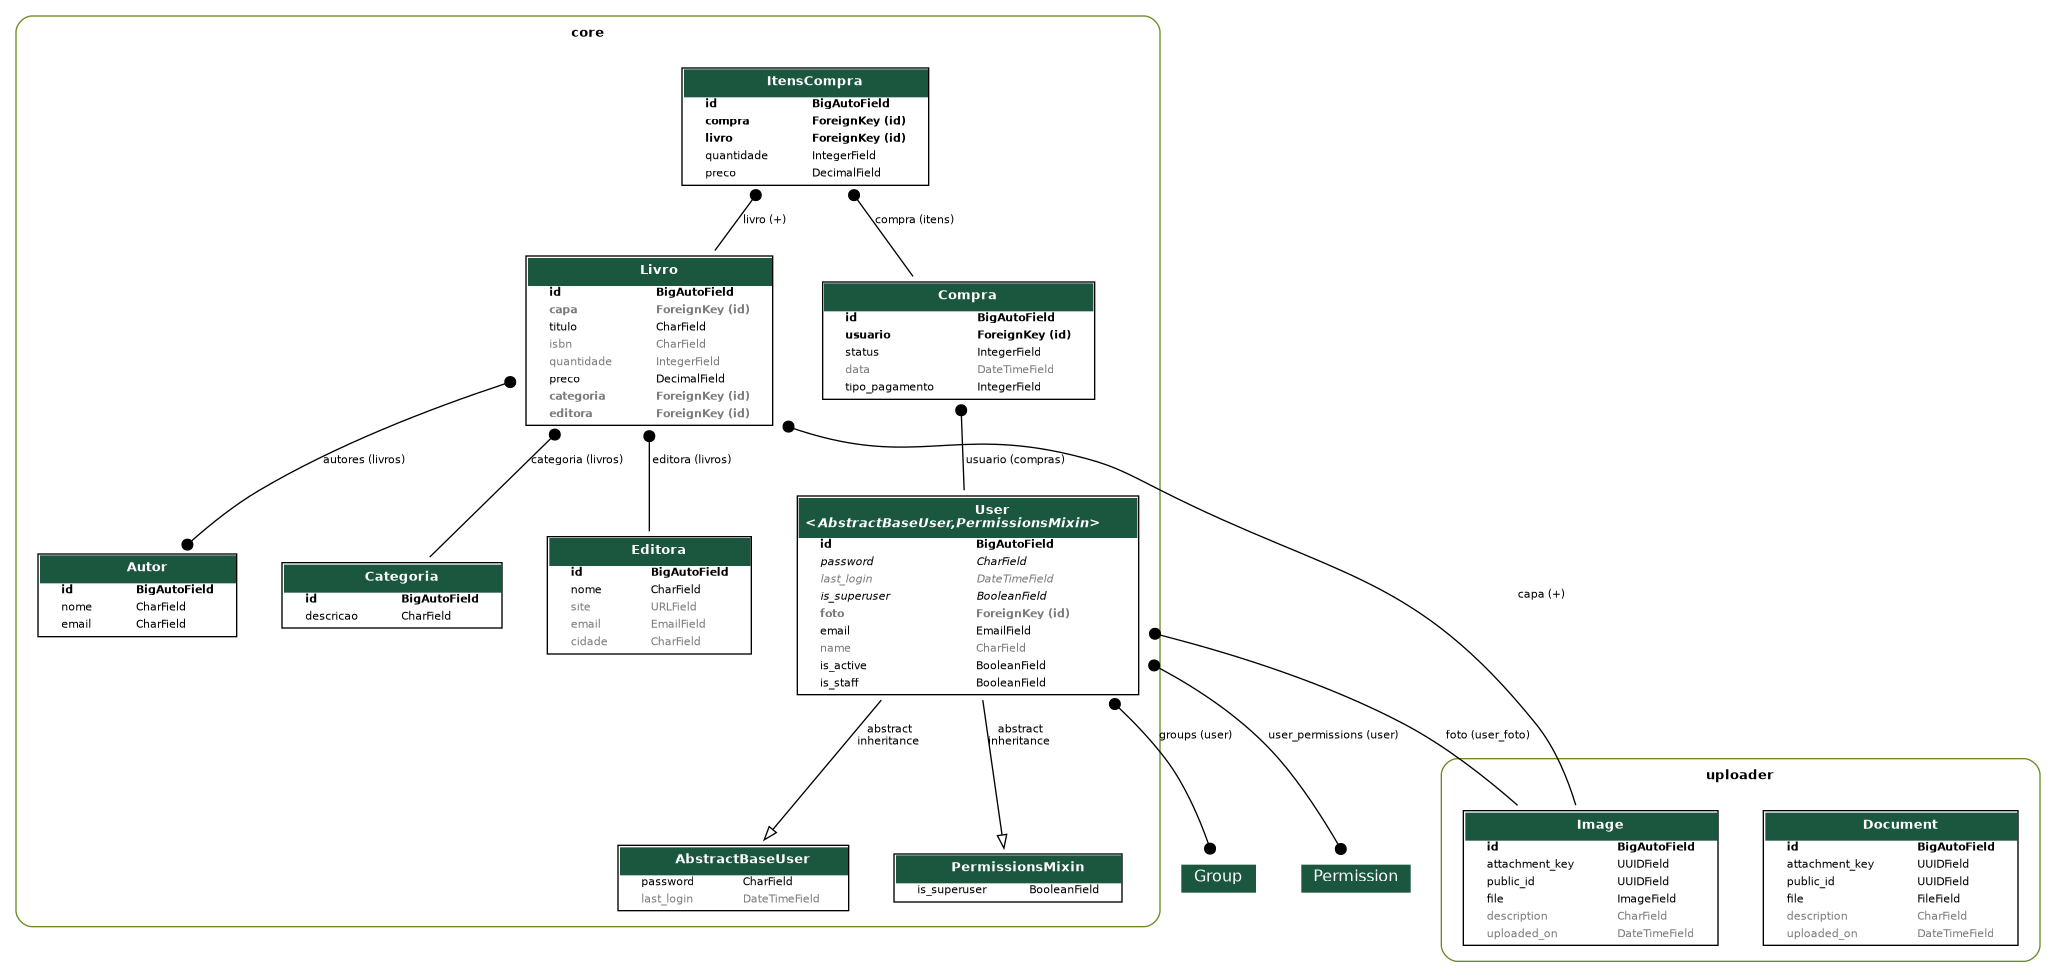
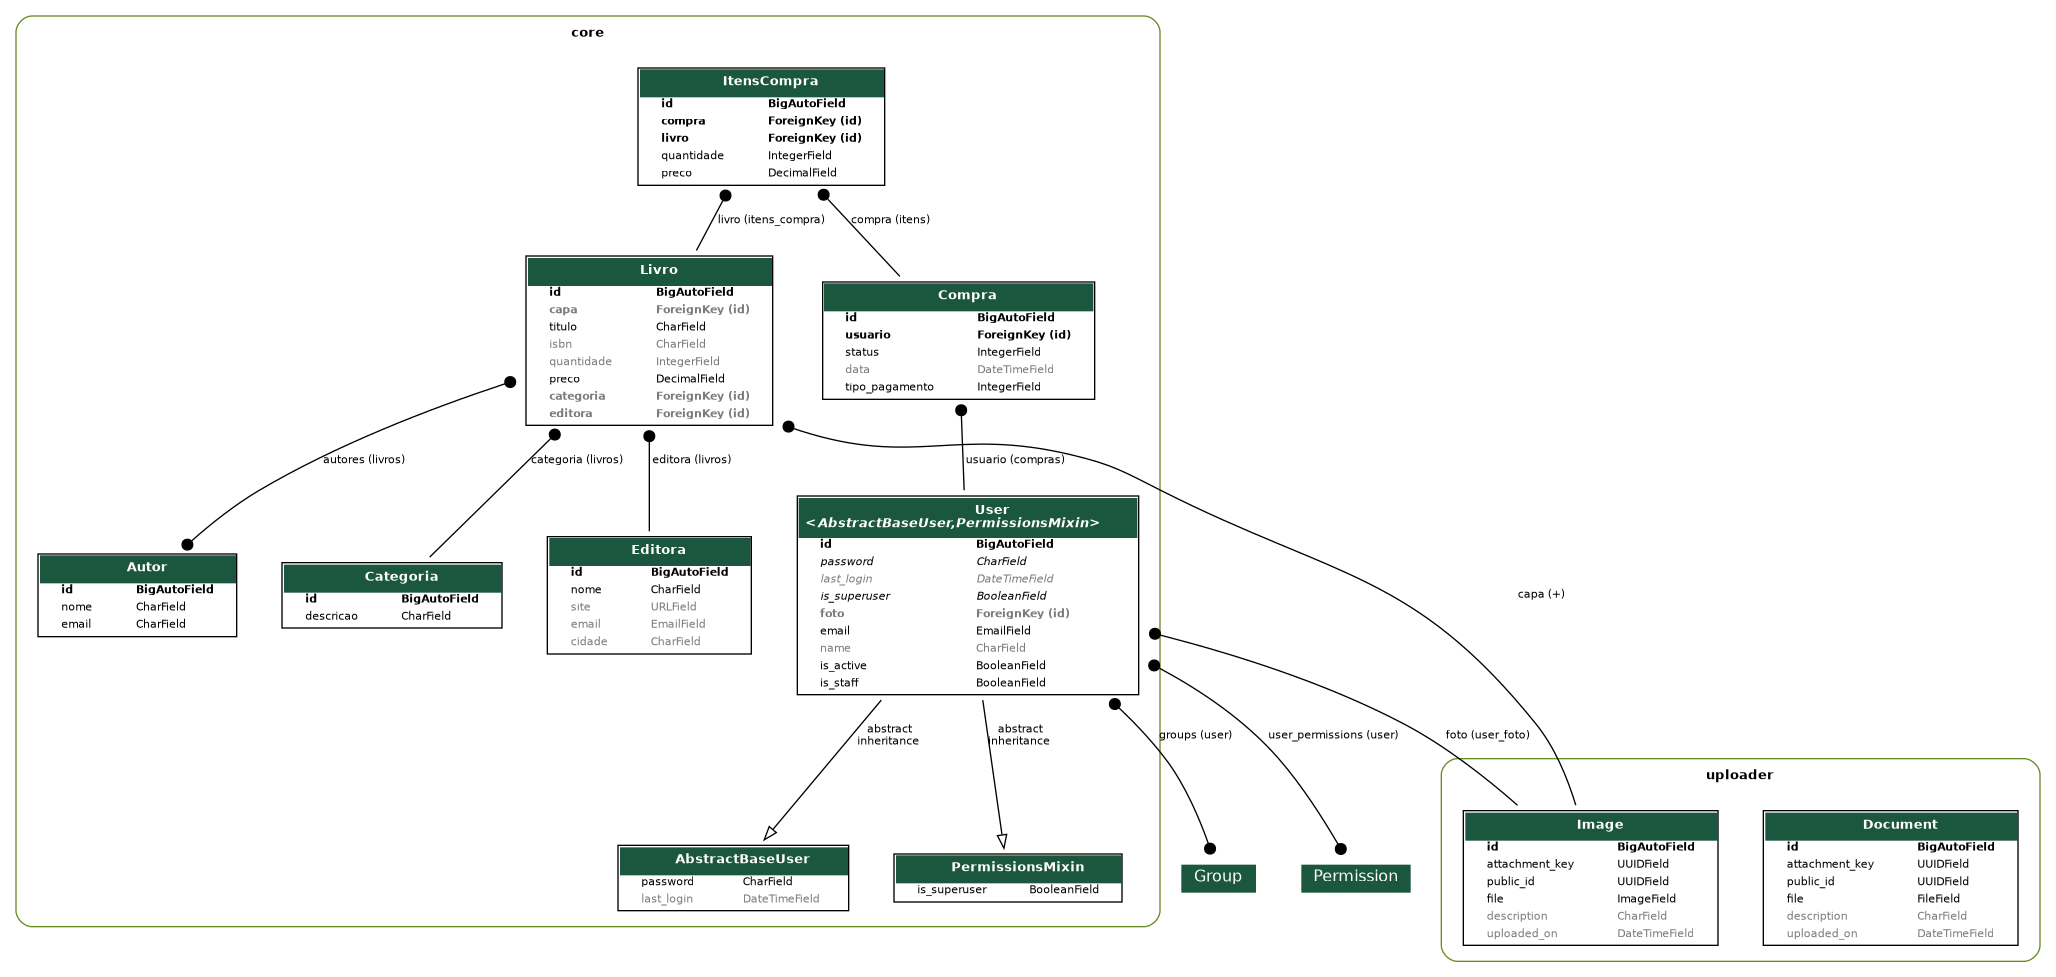
FEAT: Listando livros com mais de 10 cópias vendidas

Changed region(s): [[0.3113, 0.0614, 0.4669, 0.2456]]

diff --git a/core/views/livro.py b/core/views/livro.py
@@ -3,28 +3,23 @@ from core.views.user import action
 from rest_framework.response import Response
 from rest_framework.viewsets import ModelViewSet
 from drf_spectacular.utils import extend_schema
+from django.db.models import Q, Sum
 
-from core.models import Livro
-from core.serializers import LivroAlterarPrecoSerializer, LivroRetrieveSerializer, LivroListSerializer, LivroSerializer
+from core.models import Livro, Compra
+from core.serializers import LivroAlterarPrecoSerializer, LivroMaisVendidoSerializer, LivroRetrieveSerializer, LivroListSerializer, LivroSerializer
+
 
 class LivroViewSet(ModelViewSet):
-    queryset = Livro.objects.order_by('titulo')
-    serializer_class = LivroSerializer
+    queryset = Livro.objects.all()
+    serializer_class = LivroSerializer  # Seu serializer padrão
 
     def get_serializer_class(self):
-        if self.action in {'list', 'retrieve'}:
-            return LivroListSerializer
-        elif self.action == 'retrieve':
-            return LivroRetrieveSerializer
-        return LivroSerializer
+            if self.action in {'list', 'retrieve'}:
+                return LivroListSerializer
+            elif self.action == 'retrieve':
+                return LivroRetrieveSerializer
+            return LivroSerializer
     
-    @extend_schema(
-            request=LivroAlterarPrecoSerializer,
-            responses={200: None},
-            description="Altera o preço de um livro específico.",
-            summary="Alterar preço do livro",
-        )
-
     @action(detail=True, methods=['patch'])
     def alterar_preco(self, request, pk=None):
         livro = self.get_object()
@@ -38,5 +33,34 @@ class LivroViewSet(ModelViewSet):
         return Response(
             {'detail': f'Preço do livro "{livro.titulo}" atualizado para {livro.preco}.'}, status=status.HTTP_200_OK
         ) 
+    @extend_schema(
+            summary="Lista os livros mais vendidos",
+            description="Retorna os livros que venderam mais de 10 unidades.",
+            responses={
+                200: LivroMaisVendidoSerializer(many=True)
+            },
+        )
+    
+    @action(detail=False, methods=['get'])
+    def mais_vendidos(self, request):
+        livros = Livro.objects.annotate(
+            total_vendidos=Sum(
+                'itens_compra__quantidade',
+                filter=Q(itens_compra__compra__status=Compra.StatusCompra.FINALIZADO)
+            )
+        ).filter(total_vendidos__gt=10).order_by('-total_vendidos')
+
+        serializer = LivroMaisVendidoSerializer(livros, many=True)
+
+        if not serializer.data:
+            return Response(
+                {"detail": "Nenhum livro excedeu 10 vendas."},
+                status=status.HTTP_200_OK
+            )
+
+        return Response(serializer.data, status=status.HTTP_200_OK) 
+
+
+    
     
     

diff --git a/core/serializers/livro.py b/core/serializers/livro.py
@@ -1,4 +1,4 @@
-from rest_framework.serializers import (DecimalField, ModelSerializer, Serializer, SlugRelatedField, ValidationError)
+from rest_framework.serializers import (DecimalField,IntegerField, ModelSerializer, Serializer, SlugRelatedField, ValidationError)
 from uploader.models import Image
 from uploader.serializers import ImageSerializer
 
@@ -42,3 +42,10 @@ class LivroAlterarPrecoSerializer(Serializer):
         if preco <= 0:
             raise ValidationError('O preço deve ser um valor positivo.')
         return preco
+
+class LivroMaisVendidoSerializer(ModelSerializer):
+    total_vendidos = IntegerField()
+
+    class Meta:
+        model = Livro
+        fields = ('id', 'titulo', 'total_vendidos')

diff --git a/core/serializers/__init__.py b/core/serializers/__init__.py
@@ -2,6 +2,6 @@ from .autor import AutorSerializer
 from .categoria import CategoriaSerializer
 from .compra import CompraCreateUpdateSerializer, CompraListSerializer, ItensCompraCreateUpdateSerializer, ItensCompra, ItensCompraListSerializer, CompraSerializer
 from .editora import EditoraSerializer
-from .livro import LivroAlterarPrecoSerializer, LivroRetrieveSerializer, LivroListSerializer, LivroSerializer
+from .livro import LivroAlterarPrecoSerializer, LivroMaisVendidoSerializer, LivroRetrieveSerializer, LivroListSerializer, LivroSerializer
 from .user import UserRegistrationSerializer, UserSerializer
 from .compra import CompraSerializer

diff --git a/core/migrations/0017_alter_itenscompra_livro.py b/core/migrations/0017_alter_itenscompra_livro.py
@@ -1,0 +1,19 @@
+# Generated by Django 5.2.13 on 2026-10-16 13:32
+
+import django.db.models.deletion
+from django.db import migrations, models
+
+
+class Migration(migrations.Migration):
+
+    dependencies = [
+        ('core', '0016_compra_data_compra_tipo_pagamento_itenscompra_preco'),
+    ]
+
+    operations = [
+        migrations.AlterField(
+            model_name='itenscompra',
+            name='livro',
+            field=models.ForeignKey(on_delete=django.db.models.deletion.PROTECT, related_name='itens_compra', to='core.livro'),
+        ),
+    ]

diff --git a/core/models/compra.py b/core/models/compra.py
@@ -31,7 +31,7 @@ class Compra(models.Model):
 
 class ItensCompra(models.Model):
     compra = models.ForeignKey(Compra, on_delete=models.CASCADE, related_name='itens')
-    livro = models.ForeignKey(Livro, on_delete=models.PROTECT, related_name='+')
+    livro = models.ForeignKey(Livro, on_delete=models.PROTECT, related_name='itens_compra')    
     quantidade = models.IntegerField(default=1)
     preco = models.DecimalField(max_digits=7, decimal_places=2, default=0)
 

diff --git a/core/serializers/compra.py b/core/serializers/compra.py
@@ -1,7 +1,6 @@
 from django.forms.fields import DecimalField
 from rest_framework.serializers import ModelSerializer
 from rest_framework.serializers import ( CharField, CurrentUserDefault,DateTimeField, HiddenField, ModelSerializer,SerializerMethodField, ValidationError,)
-from core.models import Compra
 from core.models import Compra, ItensCompra
 from django.db import transaction
 
